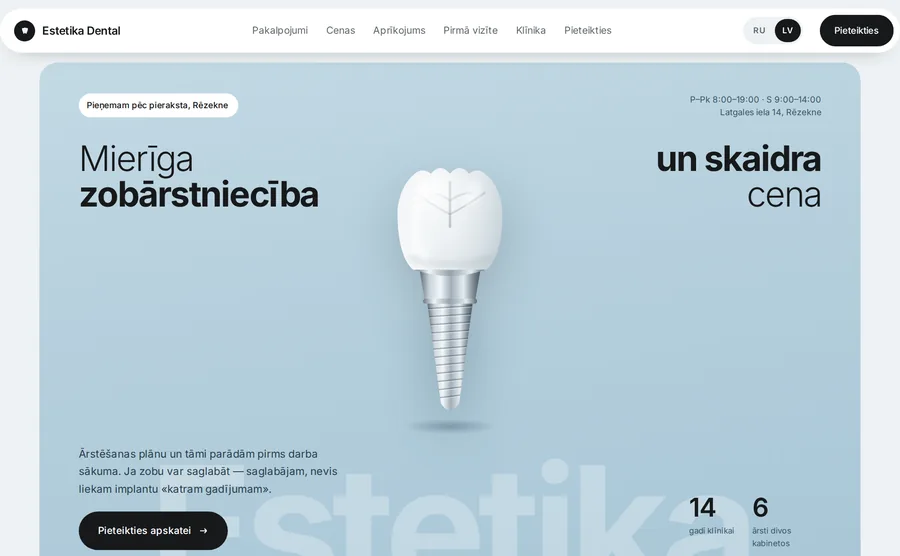
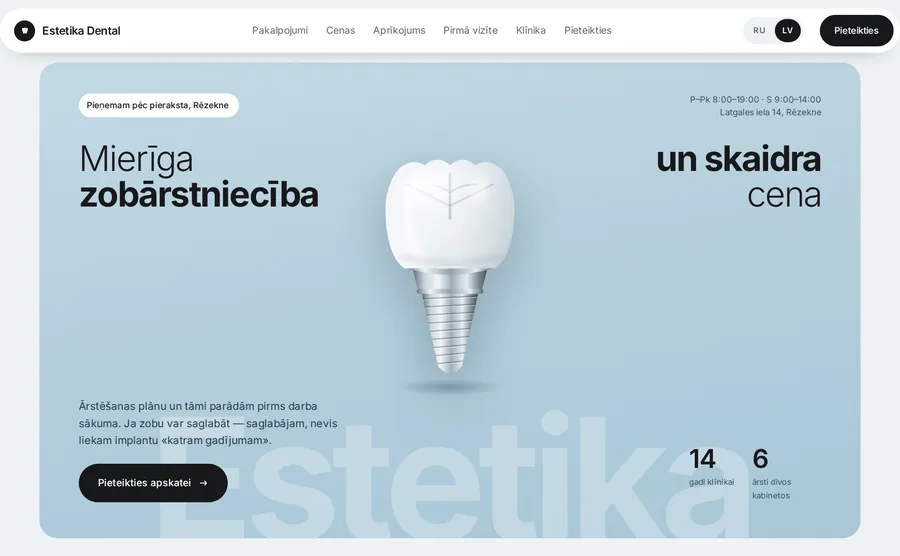
Rebalance the dental hero implant
The vector implant read as correct but stretched: the crown was 296 units wide
against 714 of height, so on screen it rendered about 148x357 — a thin column.
Widen the crown, thicken the screw and shorten the root, bringing the object to
roughly 1:1.7 instead of 1:2.4, and trim the viewBox to match so the artwork
fills the hero slot instead of floating in empty space.

Claude-Session: https://claude.ai/code/session_01HSmxZ42yryGpNHgfDjjUYv

diff --git a/_build/tooth_svg.py b/_build/tooth_svg.py
@@ -8,18 +8,18 @@ crown is tall.
 """
 import math, os, sys
 
-W, H = 560, 900
+W, H = 560, 764
 CX = 280
 
 # ── crown ──────────────────────────────────────────────────────────────────
-CROWN_TOP, CROWN_NECK = 92, 402          # occlusal surface .. gum line
-CROWN_HALF, NECK_HALF = 148, 104         # widest point .. neck
+CROWN_TOP, CROWN_NECK = 68, 398          # occlusal surface .. gum line
+CROWN_HALF, NECK_HALF = 182, 128         # widest point .. neck
 CUSPS = 4
 
 def crown_path():
     """Bell silhouette whose top edge is a row of cusps."""
     shoulder = CROWN_TOP + 46            # where the cusps meet the side walls
-    waist = CROWN_TOP + 150              # widest point of the crown
+    waist = CROWN_TOP + 158              # widest point of the crown
     d = [f'M {CX - NECK_HALF} {CROWN_NECK}']
     # left wall, neck -> waist -> shoulder
     d.append(f'C {CX - CROWN_HALF + 4} {CROWN_NECK - 34} {CX - CROWN_HALF} {waist + 40} {CX - CROWN_HALF} {waist}')
@@ -56,10 +56,10 @@ def fissures():
     return ''.join(out)
 
 # ── abutment and screw ─────────────────────────────────────────────────────
-ABUT_TOP, ABUT_BOT = 402, 496
-ABUT_HALF_TOP, ABUT_HALF_BOT = 86, 70
-SCREW_TOP, SCREW_TIP = 496, 806
-SCREW_HALF_TOP, SCREW_HALF_TIP = 64, 26
+ABUT_TOP, ABUT_BOT = 398, 468
+ABUT_HALF_TOP, ABUT_HALF_BOT = 106, 88
+SCREW_TOP, SCREW_TIP = 468, 700
+SCREW_HALF_TOP, SCREW_HALF_TIP = 80, 34
 
 def screw_outline():
     return (f'M {CX - SCREW_HALF_TOP} {SCREW_TOP} L {CX + SCREW_HALF_TOP} {SCREW_TOP} '
@@ -129,7 +129,7 @@ svg = f'''<svg xmlns="http://www.w3.org/2000/svg" viewBox="0 0 {W} {H}" width="{
   <clipPath id="screwClip"><path d="{screw_outline()}"/></clipPath>
 </defs>
 
-<ellipse cx="{CX}" cy="846" rx="132" ry="22" fill="url(#shadow)"/>
+<ellipse cx="{CX}" cy="{SCREW_TIP + 34}" rx="150" ry="24" fill="url(#shadow)"/>
 
 <!-- screw -->
 <path d="{screw_outline()}" fill="url(#steel)"/>
@@ -140,7 +140,7 @@ svg = f'''<svg xmlns="http://www.w3.org/2000/svg" viewBox="0 0 {W} {H}" width="{
 <rect x="{CX - ABUT_HALF_BOT - 6}" y="{ABUT_BOT - 12}" width="{2 * ABUT_HALF_BOT + 12}" height="14" rx="6" fill="url(#collar)"/>
 
 <!-- collar where the crown seats on the abutment -->
-<path d="M {CX - 100} {ABUT_TOP - 16} Q {CX} {ABUT_TOP + 20} {CX + 100} {ABUT_TOP - 16} L {CX + 100} {ABUT_TOP} Q {CX} {ABUT_TOP + 36} {CX - 100} {ABUT_TOP} Z" fill="url(#collar)"/>
+<path d="M {CX - NECK_HALF + 6} {ABUT_TOP - 16} Q {CX} {ABUT_TOP + 20} {CX + NECK_HALF - 6} {ABUT_TOP - 16} L {CX + NECK_HALF - 6} {ABUT_TOP} Q {CX} {ABUT_TOP + 36} {CX - NECK_HALF + 6} {ABUT_TOP} Z" fill="url(#collar)"/>
 
 <!-- crown -->
 <path d="{crown_path()}" fill="url(#enamel)"/>
@@ -150,9 +150,9 @@ svg = f'''<svg xmlns="http://www.w3.org/2000/svg" viewBox="0 0 {W} {H}" width="{
 <path d="{crown_path()}" fill="url(#gloss)"/>
 
 <!-- specular highlights -->
-<path d="M {CX - 78} {CROWN_TOP + 70} Q {CX - 104} {CROWN_TOP + 140} {CX - 96} {CROWN_TOP + 208} Q {CX - 90} {CROWN_TOP + 254} {CX - 66} {CROWN_TOP + 284}" stroke="rgba(255,255,255,.85)" stroke-width="24" stroke-linecap="round" fill="none" filter="url(#soft)" opacity=".7"/>
-<ellipse cx="{CX + 62}" cy="{CROWN_TOP + 96}" rx="24" ry="40" fill="#fff" opacity=".5" filter="url(#soft)" transform="rotate(18 {CX + 62} {CROWN_TOP + 96})"/>
-<path d="M {CX - 118} {CROWN_NECK - 36} Q {CX} {CROWN_NECK + 8} {CX + 118} {CROWN_NECK - 36}" stroke="rgba(90,108,120,.22)" stroke-width="10" fill="none" filter="url(#soft)"/>
+<path d="M {CX - 96} {CROWN_TOP + 74} Q {CX - 128} {CROWN_TOP + 148} {CX - 118} {CROWN_TOP + 220} Q {CX - 110} {CROWN_TOP + 268} {CX - 82} {CROWN_TOP + 298}" stroke="rgba(255,255,255,.85)" stroke-width="24" stroke-linecap="round" fill="none" filter="url(#soft)" opacity=".7"/>
+<ellipse cx="{CX + 80}" cy="{CROWN_TOP + 102}" rx="28" ry="44" fill="#fff" opacity=".5" filter="url(#soft)" transform="rotate(18 {CX + 80} {CROWN_TOP + 102})"/>
+<path d="M {CX - NECK_HALF - 14} {CROWN_NECK - 36} Q {CX} {CROWN_NECK + 8} {CX + NECK_HALF + 14} {CROWN_NECK - 36}" stroke="rgba(90,108,120,.22)" stroke-width="10" fill="none" filter="url(#soft)"/>
 </svg>
 '''
 
